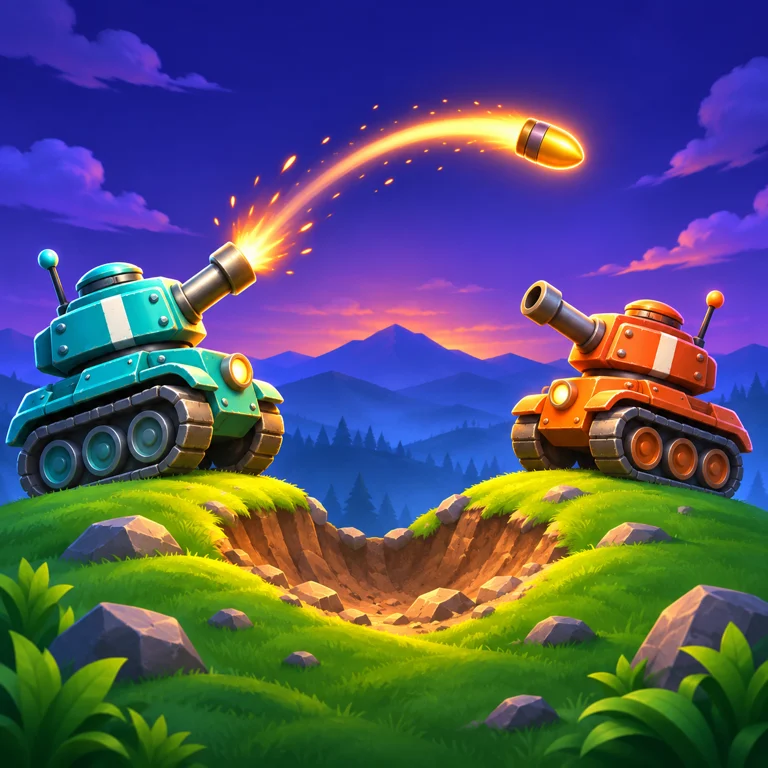
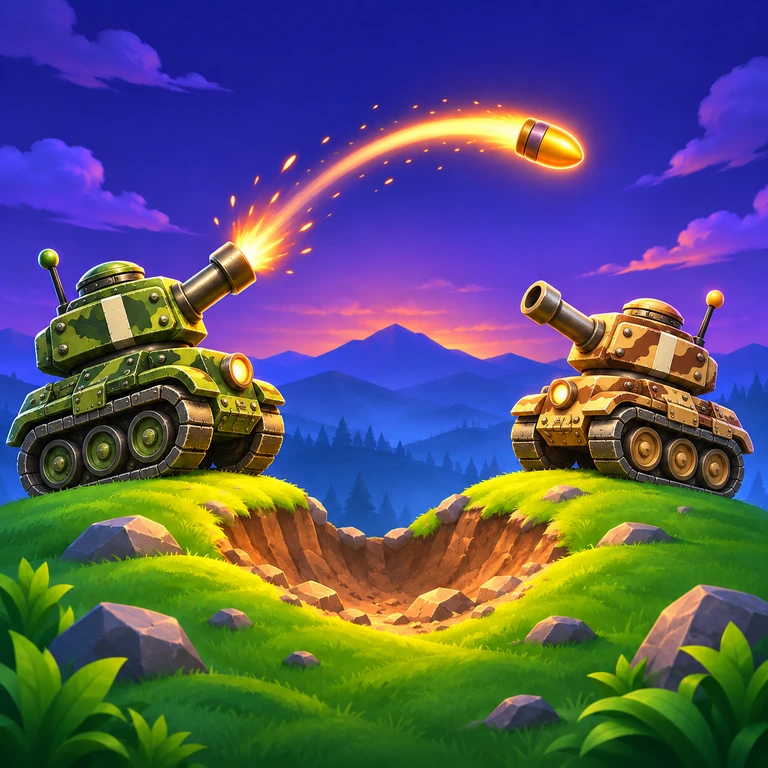
Update Tank Wars forest and desert artwork and aiming guide

diff --git a/tank-wars/index.html b/tank-wars/index.html
@@ -1,1 +1,1 @@
-<!doctype html><html lang="en"><head><meta charset="utf-8"><meta name="viewport" content="width=device-width,initial-scale=1"><title>Tank Wars — Android Artillery Game — TripperDeeLabs</title><meta name="description" content="Aim, fire and reshape the hills in Tank Wars for Android. Turn-based artillery, destructible terrain, three weapons and offline local play. Coming soon."><link rel="canonical" href="https://tripperdeelabs.com/tank-wars/"><meta property="og:type" content="website"><meta property="og:title" content="Tank Wars — Android Artillery Game"><meta property="og:description" content="Aim, fire and reshape the hills in Tank Wars for Android. Turn-based artillery, destructible terrain, three weapons and offline local play. Coming soon."><meta property="og:url" content="https://tripperdeelabs.com/tank-wars/"><meta property="og:image" content="https://tripperdeelabs.com/assets/apps/tank-wars/art.webp"><meta property="og:image:alt" content="Tank Wars — Android Artillery Game"><meta name="twitter:card" content="summary_large_image"><meta name="twitter:title" content="Tank Wars — Android Artillery Game"><meta name="twitter:description" content="Aim, fire and reshape the hills in Tank Wars for Android. Turn-based artillery, destructible terrain, three weapons and offline local play. Coming soon."><meta name="twitter:image" content="https://tripperdeelabs.com/assets/apps/tank-wars/art.webp"><meta name="twitter:image:alt" content="Tank Wars — Android Artillery Game"><script type="application/ld+json">{"@context": "https://schema.org", "@graph": [{"@type": "Organization", "@id": "https://tripperdeelabs.com/#studio", "name": "TripperDeeLabs", "url": "https://tripperdeelabs.com/", "logo": "https://tripperdeelabs.com/assets/tripperdeelabs-logo.png", "email": "tripperdeelabs@gmail.com"}, {"@type": "WebSite", "@id": "https://tripperdeelabs.com/#website", "url": "https://tripperdeelabs.com/", "name": "TripperDeeLabs", "publisher": {"@id": "https://tripperdeelabs.com/#studio"}, "inLanguage": "en"}, {"@type": "WebPage", "@id": "https://tripperdeelabs.com/tank-wars/#webpage", "url": "https://tripperdeelabs.com/tank-wars/", "name": "Tank Wars \u2014 Android Artillery Game", "description": "Aim, fire and reshape the hills in Tank Wars for Android. Turn-based artillery, destructible terrain, three weapons and offline local play. Coming soon.", "isPartOf": {"@id": "https://tripperdeelabs.com/#website"}, "publisher": {"@id": "https://tripperdeelabs.com/#studio"}, "inLanguage": "en"}, {"@type": "BreadcrumbList", "itemListElement": [{"@type": "ListItem", "position": 1, "name": "Home", "item": "https://tripperdeelabs.com/"}, {"@type": "ListItem", "position": 2, "name": "Tank Wars \u2014 Android Artillery Game", "item": "https://tripperdeelabs.com/tank-wars/"}]}]}</script><link rel="icon" href="/assets/tripperdeelabs-logo.png" type="image/png"><link rel="stylesheet" href="/styles.css"><link rel="stylesheet" href="/catalog.css"><script defer src="/cookie-consent.js"></script></head><body><a class="skip-link" href="#main-content">Skip to main content</a><header class="site-header"><nav class="nav wrap" aria-label="Main navigation"><a class="brand" href="/"><img class="brand-logo" src="/assets/tripperdeelabs-logo.png" width="48" height="48" alt="">TripperDeeLabs</a><div class="links"><a href="/#apps">Apps</a><a href="/wear-os/">Wear OS</a><a href="/#about">About</a></div></nav></header><main id="main-content" tabindex="-1" class="wrap"><nav class="breadcrumbs" aria-label="Breadcrumb"><a href="/">Home</a> <span aria-hidden="true">/</span> <span aria-current="page">Tank Wars — Android Artillery Game</span></nav><style>.tank-hero{display:grid;grid-template-columns:1.1fr 1fr;gap:2rem;align-items:center}.tank-hero img{width:100%;height:auto;border-radius:24px}.tank-gallery{display:grid;gap:1.2rem}.tank-gallery img{width:100%;height:auto;border-radius:18px}.tank-gallery figure{margin:0}@media(max-width:650px){.tank-hero{grid-template-columns:1fr}}</style><section class="catalog-hero tank-hero"><div><p class="eyebrow">Android artillery game · Coming soon</p><h1>Tank Wars</h1><p class="lead">Aim high. Change the ground.</p><p>Line up your angle, choose your power and send a shell across the hills. Every crater changes the battlefield—and your next shot.</p><p><a class="button" href="#screenshots">See the battlefield</a> · <a href="/tank-wars/support/">How to play</a></p><p>In development. Not yet available on Google Play.</p></div><img src="/assets/apps/tank-wars/art.webp" width="768" height="768" alt="Turquoise and coral tanks on opposing green hills beneath a golden shell arc"></section><section><h2>Make every shot count</h2><p>Tank Wars is a native Android, turn-based artillery game. Adjust your turret angle and firing power, watch the wind, then fire. Projectiles follow curved trajectories, explosions carve away terrain, and tanks fall when the ground underneath them disappears.</p><h2>Three ways to play</h2><p>Practice against the computer, trade turns with a friend on one phone or tablet, or try the paired Bluetooth Host a game / Join a game mode. Local gameplay needs no internet and no account.</p><p>Bluetooth is implemented in the development build, with the host calculating shots, damage and turns. Synchronization is tested in software; two-device radio gameplay still requires validation. Both devices need Bluetooth enabled, Android pairing and the same app version.</p><h2>Choose your weapon</h2><p><strong>Shell</strong> gives you unlimited standard shots. <strong>Heavy</strong> makes a wider blast, with three rounds per battle. <strong>Drill</strong> digs deeper into the ground, also with three rounds. Use terrain damage to change your opponent’s position, but protect your own foothold.</p></section><section id="screenshots"><h2>Inside the game</h2><p>Actual Android development-build captures from the emulator. Final release details may change.</p><div class="tank-gallery"><figure><img src="/assets/apps/tank-wars/home.webp" width="2400" height="1080" loading="lazy" alt="Tank Wars landscape menu with computer, two-player and Bluetooth modes"><figcaption>Choose a battle. Settings uses the gear icon.</figcaption></figure><figure><img src="/assets/apps/tank-wars/game.webp" width="2400" height="1080" loading="lazy" alt="Tank Wars battlefield with terrain, tanks, aiming sliders and Fire button"><figcaption>Native touch controls and a Canvas-rendered battlefield.</figcaption></figure></div></section><section><h2>Play at your pace</h2><p>Pause mid-shot, then resume where you left off. Local battles save on your device. Sound is optional. Compact controls keep the battlefield visible on phones and tablets.</p><h2>Between battles</h2><p>Development builds use Google test interstitial ads only after a completed battle, when starting another battle or returning Home. Close the ad to continue. If no ad is ready, play continues normally. Ads require internet; gameplay does not. Launch pricing and production ad configuration have not been announced.</p></section><p><a href="/tank-wars/privacy/">Privacy policy</a> · <a href="/tank-wars/support/">Support</a></p></main><footer class="studio-footer"><div class="wrap"><div class="studio-footer-main"><div class="studio-footer-brand"><a href="/">TripperDeeLabs</a><p>Doing TripperDee things in a TripperDee world.</p></div><nav class="studio-footer-nav" aria-label="Footer navigation"><a href="/#apps">Apps</a><a href="/#about">About the developer</a><a href="mailto:tripperdeelabs@gmail.com">Contact</a><a href="/feedback/">Feedback</a><a href="/privacy/">Website privacy</a></nav></div><div class="studio-footer-bottom"><span>© 2026 TripperDeeLabs</span><span>Google Play and the Google Play logo are trademarks of Google LLC.</span></div></div></footer></body></html>
+<!doctype html><html lang="en"><head><meta charset="utf-8"><meta name="viewport" content="width=device-width,initial-scale=1"><title>Tank Wars — Android Artillery Game — TripperDeeLabs</title><meta name="description" content="Aim, fire and reshape the hills in Tank Wars for Android. Turn-based artillery, destructible terrain, three weapons and offline local play. Coming soon."><link rel="canonical" href="https://tripperdeelabs.com/tank-wars/"><meta property="og:type" content="website"><meta property="og:title" content="Tank Wars — Android Artillery Game"><meta property="og:description" content="Aim, fire and reshape the hills in Tank Wars for Android. Turn-based artillery, destructible terrain, three weapons and offline local play. Coming soon."><meta property="og:url" content="https://tripperdeelabs.com/tank-wars/"><meta property="og:image" content="https://tripperdeelabs.com/assets/apps/tank-wars/art.webp"><meta property="og:image:alt" content="Tank Wars — Android Artillery Game"><meta name="twitter:card" content="summary_large_image"><meta name="twitter:title" content="Tank Wars — Android Artillery Game"><meta name="twitter:description" content="Aim, fire and reshape the hills in Tank Wars for Android. Turn-based artillery, destructible terrain, three weapons and offline local play. Coming soon."><meta name="twitter:image" content="https://tripperdeelabs.com/assets/apps/tank-wars/art.webp"><meta name="twitter:image:alt" content="Tank Wars — Android Artillery Game"><script type="application/ld+json">{"@context": "https://schema.org", "@graph": [{"@type": "Organization", "@id": "https://tripperdeelabs.com/#studio", "name": "TripperDeeLabs", "url": "https://tripperdeelabs.com/", "logo": "https://tripperdeelabs.com/assets/tripperdeelabs-logo.png", "email": "tripperdeelabs@gmail.com"}, {"@type": "WebSite", "@id": "https://tripperdeelabs.com/#website", "url": "https://tripperdeelabs.com/", "name": "TripperDeeLabs", "publisher": {"@id": "https://tripperdeelabs.com/#studio"}, "inLanguage": "en"}, {"@type": "WebPage", "@id": "https://tripperdeelabs.com/tank-wars/#webpage", "url": "https://tripperdeelabs.com/tank-wars/", "name": "Tank Wars \u2014 Android Artillery Game", "description": "Aim, fire and reshape the hills in Tank Wars for Android. Turn-based artillery, destructible terrain, three weapons and offline local play. Coming soon.", "isPartOf": {"@id": "https://tripperdeelabs.com/#website"}, "publisher": {"@id": "https://tripperdeelabs.com/#studio"}, "inLanguage": "en"}, {"@type": "BreadcrumbList", "itemListElement": [{"@type": "ListItem", "position": 1, "name": "Home", "item": "https://tripperdeelabs.com/"}, {"@type": "ListItem", "position": 2, "name": "Tank Wars \u2014 Android Artillery Game", "item": "https://tripperdeelabs.com/tank-wars/"}]}]}</script><link rel="icon" href="/assets/tripperdeelabs-logo.png" type="image/png"><link rel="stylesheet" href="/styles.css"><link rel="stylesheet" href="/catalog.css"><script defer src="/cookie-consent.js"></script></head><body><a class="skip-link" href="#main-content">Skip to main content</a><header class="site-header"><nav class="nav wrap" aria-label="Main navigation"><a class="brand" href="/"><img class="brand-logo" src="/assets/tripperdeelabs-logo.png" width="48" height="48" alt="">TripperDeeLabs</a><div class="links"><a href="/#apps">Apps</a><a href="/wear-os/">Wear OS</a><a href="/#about">About</a></div></nav></header><main id="main-content" tabindex="-1" class="wrap"><nav class="breadcrumbs" aria-label="Breadcrumb"><a href="/">Home</a> <span aria-hidden="true">/</span> <span aria-current="page">Tank Wars — Android Artillery Game</span></nav><style>.tank-hero{display:grid;grid-template-columns:1.1fr 1fr;gap:2rem;align-items:center}.tank-hero img{width:100%;height:auto;border-radius:24px}.tank-gallery{display:grid;gap:1.2rem}.tank-gallery img{width:100%;height:auto;border-radius:18px}.tank-gallery figure{margin:0}@media(max-width:650px){.tank-hero{grid-template-columns:1fr}}</style><section class="catalog-hero tank-hero"><div><p class="eyebrow">Android artillery game · Coming soon</p><h1>Tank Wars</h1><p class="lead">Aim high. Change the ground.</p><p>Line up your angle, choose your power and send a shell across the hills. Every crater changes the battlefield—and your next shot.</p><p><a class="button" href="#screenshots">See the battlefield</a> · <a href="/tank-wars/support/">How to play</a></p><p>In development. Not yet available on Google Play.</p></div><img src="/assets/apps/tank-wars/art.webp" width="768" height="768" alt="Forest-green and desert-tan camouflage tanks on opposing green hills beneath a golden shell arc"></section><section><h2>Make every shot count</h2><p>Tank Wars is a native Android, turn-based artillery game. Adjust your turret angle and firing power, watch the wind, then fire. Projectiles follow curved trajectories, explosions carve away terrain, and tanks fall when the ground underneath them disappears.</p><h2>Three ways to play</h2><p>Practice against the computer, trade turns with a friend on one phone or tablet, or try the paired Bluetooth Host a game / Join a game mode. Local gameplay needs no internet and no account.</p><p>Bluetooth is implemented in the development build, with the host calculating shots, damage and turns. Synchronization is tested in software; two-device radio gameplay still requires validation. Both devices need Bluetooth enabled, Android pairing and the same app version.</p><h2>Choose your weapon</h2><p><strong>Shell</strong> gives you unlimited standard shots. <strong>Heavy</strong> makes a wider blast, with three rounds per battle. <strong>Drill</strong> digs deeper into the ground, also with three rounds. Use terrain damage to change your opponent’s position, but protect your own foothold.</p></section><section id="screenshots"><h2>Inside the game</h2><p>Actual Android development-build captures from the emulator. Final release details may change.</p><div class="tank-gallery"><figure><img src="/assets/apps/tank-wars/home.webp" width="2400" height="1080" loading="lazy" alt="Tank Wars landscape menu with computer, two-player and Bluetooth modes"><figcaption>Choose a battle. Settings uses the gear icon.</figcaption></figure><figure><img src="/assets/apps/tank-wars/game.webp" width="2400" height="1080" loading="lazy" alt="Tank Wars battlefield with terrain, tanks, aiming sliders and Fire button"><figcaption>Native touch controls and a Canvas-rendered battlefield.</figcaption></figure></div></section><section><h2>Play at your pace</h2><p>Pause mid-shot, then resume where you left off. Local battles save on your device. Sound is optional. Compact controls keep the battlefield visible on phones and tablets.</p><h2>Between battles</h2><p>Development builds use Google test interstitial ads only after a completed battle, when starting another battle or returning Home. Close the ad to continue. If no ad is ready, play continues normally. Ads require internet; gameplay does not. Launch pricing and production ad configuration have not been announced.</p></section><p><a href="/tank-wars/privacy/">Privacy policy</a> · <a href="/tank-wars/support/">Support</a></p></main><footer class="studio-footer"><div class="wrap"><div class="studio-footer-main"><div class="studio-footer-brand"><a href="/">TripperDeeLabs</a><p>Doing TripperDee things in a TripperDee world.</p></div><nav class="studio-footer-nav" aria-label="Footer navigation"><a href="/#apps">Apps</a><a href="/#about">About the developer</a><a href="mailto:tripperdeelabs@gmail.com">Contact</a><a href="/feedback/">Feedback</a><a href="/privacy/">Website privacy</a></nav></div><div class="studio-footer-bottom"><span>© 2026 TripperDeeLabs</span><span>Google Play and the Google Play logo are trademarks of Google LLC.</span></div></div></footer></body></html>

diff --git a/tank-wars/support/index.html b/tank-wars/support/index.html
@@ -1,1 +1,1 @@
-<!doctype html><html lang="en"><head><meta charset="utf-8"><meta name="viewport" content="width=device-width,initial-scale=1"><title>Tank Wars support — TripperDeeLabs</title><meta name="description" content="How to aim, use weapons, pause, save and connect over Bluetooth in Tank Wars."><link rel="canonical" href="https://tripperdeelabs.com/tank-wars/support/"><meta property="og:type" content="website"><meta property="og:title" content="Tank Wars support"><meta property="og:description" content="How to aim, use weapons, pause, save and connect over Bluetooth in Tank Wars."><meta property="og:url" content="https://tripperdeelabs.com/tank-wars/support/"><meta property="og:image" content="https://tripperdeelabs.com/assets/tripperdeelabs-logo.png"><meta property="og:image:alt" content="Tank Wars support"><meta name="twitter:card" content="summary_large_image"><meta name="twitter:title" content="Tank Wars support"><meta name="twitter:description" content="How to aim, use weapons, pause, save and connect over Bluetooth in Tank Wars."><meta name="twitter:image" content="https://tripperdeelabs.com/assets/tripperdeelabs-logo.png"><meta name="twitter:image:alt" content="Tank Wars support"><script type="application/ld+json">{"@context": "https://schema.org", "@graph": [{"@type": "Organization", "@id": "https://tripperdeelabs.com/#studio", "name": "TripperDeeLabs", "url": "https://tripperdeelabs.com/", "logo": "https://tripperdeelabs.com/assets/tripperdeelabs-logo.png", "email": "tripperdeelabs@gmail.com"}, {"@type": "WebSite", "@id": "https://tripperdeelabs.com/#website", "url": "https://tripperdeelabs.com/", "name": "TripperDeeLabs", "publisher": {"@id": "https://tripperdeelabs.com/#studio"}, "inLanguage": "en"}, {"@type": "WebPage", "@id": "https://tripperdeelabs.com/tank-wars/support/#webpage", "url": "https://tripperdeelabs.com/tank-wars/support/", "name": "Tank Wars support", "description": "How to aim, use weapons, pause, save and connect over Bluetooth in Tank Wars.", "isPartOf": {"@id": "https://tripperdeelabs.com/#website"}, "publisher": {"@id": "https://tripperdeelabs.com/#studio"}, "inLanguage": "en"}, {"@type": "BreadcrumbList", "itemListElement": [{"@type": "ListItem", "position": 1, "name": "Home", "item": "https://tripperdeelabs.com/"}, {"@type": "ListItem", "position": 2, "name": "Tank Wars support", "item": "https://tripperdeelabs.com/tank-wars/support/"}]}]}</script><link rel="icon" href="/assets/tripperdeelabs-logo.png" type="image/png"><link rel="stylesheet" href="/styles.css"><link rel="stylesheet" href="/catalog.css"><script defer src="/cookie-consent.js"></script></head><body><a class="skip-link" href="#main-content">Skip to main content</a><header class="site-header"><nav class="nav wrap" aria-label="Main navigation"><a class="brand" href="/"><img class="brand-logo" src="/assets/tripperdeelabs-logo.png" width="48" height="48" alt="">TripperDeeLabs</a><div class="links"><a href="/#apps">Apps</a><a href="/wear-os/">Wear OS</a><a href="/#about">About</a></div></nav></header><main id="main-content" tabindex="-1" class="wrap"><nav class="breadcrumbs" aria-label="Breadcrumb"><a href="/">Home</a> <span aria-hidden="true">/</span> <span aria-current="page">Tank Wars support</span></nav><section><h1>Tank Wars support</h1><h2>Aim and fire</h2><p>Play in landscape. Move the Aim slider to change your turret angle and the Power slider to change shot strength. Tap the weapon name to choose Shell, Heavy or Drill. Tap FIRE when it is your turn. Wind bends the trajectory. The turn passes after the shot and any falling tanks have settled.</p><h2>Win the battle</h2><p>Reduce the other tank’s health to zero. Nearby explosions damage tanks; falling can cause additional damage. Shell is unlimited, while Heavy and Drill each start with three rounds. Heavy creates a wider blast; Drill digs deeper. Two players takes turns on the same device; Play computer gives you a computer opponent.</p><h2>Pause and resume</h2><p>The two-bar icon pauses. Resume continues a shot or settling terrain. Home keeps the local battle, including ammunition and terrain. Starting a different local battle asks before replacing it. The gear opens Settings; the Home icon returns to the menu. Do not clear storage or uninstall to troubleshoot if you want to keep your save.</p><h2>Bluetooth setup</h2><p>Enable Bluetooth and pair both devices in Android Bluetooth settings. Install the same Tank Wars version on both. Choose Bluetooth play, then Host a game on one phone and Join a game on the other. Grant Nearby devices permission and select the hosting phone. The host controls the simulation; each player can aim and fire only on their own turn. Leaving the foreground disconnects the session. Reconnect to start a new battle. Two-device radio behavior is still being validated.</p><h2>Ads</h2><p>Google test ads may appear only after a completed battle, when choosing New battle or Home. Use the ad’s Close button when available. If an ad cannot load, play continues. Bluetooth sessions close before an ad; host and join again for another battle.</p><h2>Contact</h2><p>Email <a href="mailto:tripperdeelabs@gmail.com?subject=Tank%20Wars%20support">tripperdeelabs@gmail.com</a> with your app version, device model and what happened.</p><p><a href="/tank-wars/">Game overview</a> · <a href="/tank-wars/privacy/">Privacy policy</a></p></section></main><footer class="studio-footer"><div class="wrap"><div class="studio-footer-main"><div class="studio-footer-brand"><a href="/">TripperDeeLabs</a><p>Doing TripperDee things in a TripperDee world.</p></div><nav class="studio-footer-nav" aria-label="Footer navigation"><a href="/#apps">Apps</a><a href="/#about">About the developer</a><a href="mailto:tripperdeelabs@gmail.com">Contact</a><a href="/feedback/">Feedback</a><a href="/privacy/">Website privacy</a></nav></div><div class="studio-footer-bottom"><span>© 2026 TripperDeeLabs</span><span>Google Play and the Google Play logo are trademarks of Google LLC.</span></div></div></footer></body></html>
+<!doctype html><html lang="en"><head><meta charset="utf-8"><meta name="viewport" content="width=device-width,initial-scale=1"><title>Tank Wars support — TripperDeeLabs</title><meta name="description" content="How to aim, use weapons, pause, save and connect over Bluetooth in Tank Wars."><link rel="canonical" href="https://tripperdeelabs.com/tank-wars/support/"><meta property="og:type" content="website"><meta property="og:title" content="Tank Wars support"><meta property="og:description" content="How to aim, use weapons, pause, save and connect over Bluetooth in Tank Wars."><meta property="og:url" content="https://tripperdeelabs.com/tank-wars/support/"><meta property="og:image" content="https://tripperdeelabs.com/assets/tripperdeelabs-logo.png"><meta property="og:image:alt" content="Tank Wars support"><meta name="twitter:card" content="summary_large_image"><meta name="twitter:title" content="Tank Wars support"><meta name="twitter:description" content="How to aim, use weapons, pause, save and connect over Bluetooth in Tank Wars."><meta name="twitter:image" content="https://tripperdeelabs.com/assets/tripperdeelabs-logo.png"><meta name="twitter:image:alt" content="Tank Wars support"><script type="application/ld+json">{"@context": "https://schema.org", "@graph": [{"@type": "Organization", "@id": "https://tripperdeelabs.com/#studio", "name": "TripperDeeLabs", "url": "https://tripperdeelabs.com/", "logo": "https://tripperdeelabs.com/assets/tripperdeelabs-logo.png", "email": "tripperdeelabs@gmail.com"}, {"@type": "WebSite", "@id": "https://tripperdeelabs.com/#website", "url": "https://tripperdeelabs.com/", "name": "TripperDeeLabs", "publisher": {"@id": "https://tripperdeelabs.com/#studio"}, "inLanguage": "en"}, {"@type": "WebPage", "@id": "https://tripperdeelabs.com/tank-wars/support/#webpage", "url": "https://tripperdeelabs.com/tank-wars/support/", "name": "Tank Wars support", "description": "How to aim, use weapons, pause, save and connect over Bluetooth in Tank Wars.", "isPartOf": {"@id": "https://tripperdeelabs.com/#website"}, "publisher": {"@id": "https://tripperdeelabs.com/#studio"}, "inLanguage": "en"}, {"@type": "BreadcrumbList", "itemListElement": [{"@type": "ListItem", "position": 1, "name": "Home", "item": "https://tripperdeelabs.com/"}, {"@type": "ListItem", "position": 2, "name": "Tank Wars support", "item": "https://tripperdeelabs.com/tank-wars/support/"}]}]}</script><link rel="icon" href="/assets/tripperdeelabs-logo.png" type="image/png"><link rel="stylesheet" href="/styles.css"><link rel="stylesheet" href="/catalog.css"><script defer src="/cookie-consent.js"></script></head><body><a class="skip-link" href="#main-content">Skip to main content</a><header class="site-header"><nav class="nav wrap" aria-label="Main navigation"><a class="brand" href="/"><img class="brand-logo" src="/assets/tripperdeelabs-logo.png" width="48" height="48" alt="">TripperDeeLabs</a><div class="links"><a href="/#apps">Apps</a><a href="/wear-os/">Wear OS</a><a href="/#about">About</a></div></nav></header><main id="main-content" tabindex="-1" class="wrap"><nav class="breadcrumbs" aria-label="Breadcrumb"><a href="/">Home</a> <span aria-hidden="true">/</span> <span aria-current="page">Tank Wars support</span></nav><section><h1>Tank Wars support</h1><h2>Aim and fire</h2><p>Play in landscape. Move the Aim slider to change your turret angle and the Power slider to change shot strength. Tap the weapon name to choose Shell, Heavy or Drill. Tap FIRE when it is your turn. Drag across the battlefield to aim, or use the sliders for finer adjustments. A short dotted guide shows the initial wind-aware trajectory; each tank remembers its previous angle and power. Wind bends the trajectory. The turn passes after the shot and any falling tanks have settled.</p><h2>Win the battle</h2><p>Reduce the other tank’s health to zero. Nearby explosions damage tanks; falling can cause additional damage. Shell is unlimited, while Heavy and Drill each start with three rounds. Heavy creates a wider blast; Drill digs deeper. Two players takes turns on the same device; Play computer gives you a computer opponent.</p><h2>Pause and resume</h2><p>The two-bar icon pauses. Resume continues a shot or settling terrain. Home keeps the local battle, including ammunition and terrain. Starting a different local battle asks before replacing it. The gear opens Settings; the Home icon returns to the menu. Do not clear storage or uninstall to troubleshoot if you want to keep your save.</p><h2>Bluetooth setup</h2><p>Enable Bluetooth and pair both devices in Android Bluetooth settings. Install the same Tank Wars version on both. Choose Bluetooth play, then Host a game on one phone and Join a game on the other. Grant Nearby devices permission and select the hosting phone. The host controls the simulation; each player can aim and fire only on their own turn. Leaving the foreground disconnects the session. Reconnect to start a new battle. Two-device radio behavior is still being validated.</p><h2>Ads</h2><p>Google test ads may appear only after a completed battle, when choosing New battle or Home. Use the ad’s Close button when available. If an ad cannot load, play continues. Bluetooth sessions close before an ad; host and join again for another battle.</p><h2>Contact</h2><p>Email <a href="mailto:tripperdeelabs@gmail.com?subject=Tank%20Wars%20support">tripperdeelabs@gmail.com</a> with your app version, device model and what happened.</p><p><a href="/tank-wars/">Game overview</a> · <a href="/tank-wars/privacy/">Privacy policy</a></p></section></main><footer class="studio-footer"><div class="wrap"><div class="studio-footer-main"><div class="studio-footer-brand"><a href="/">TripperDeeLabs</a><p>Doing TripperDee things in a TripperDee world.</p></div><nav class="studio-footer-nav" aria-label="Footer navigation"><a href="/#apps">Apps</a><a href="/#about">About the developer</a><a href="mailto:tripperdeelabs@gmail.com">Contact</a><a href="/feedback/">Feedback</a><a href="/privacy/">Website privacy</a></nav></div><div class="studio-footer-bottom"><span>© 2026 TripperDeeLabs</span><span>Google Play and the Google Play logo are trademarks of Google LLC.</span></div></div></footer></body></html>

diff --git a/scripts/tank_wars_pages.py b/scripts/tank_wars_pages.py
@@ -4,9 +4,9 @@ from bs4 import BeautifulSoup
 ROOT=Path(__file__).resolve().parents[1]
 def build(page):
  base='/assets/apps/tank-wars/'
- body=f'''<style>.tank-hero{{display:grid;grid-template-columns:1.1fr 1fr;gap:2rem;align-items:center}}.tank-hero img{{width:100%;height:auto;border-radius:24px}}.tank-gallery{{display:grid;gap:1.2rem}}.tank-gallery img{{width:100%;height:auto;border-radius:18px}}.tank-gallery figure{{margin:0}}@media(max-width:650px){{.tank-hero{{grid-template-columns:1fr}}}}</style><section class="catalog-hero tank-hero"><div><p class="eyebrow">Android artillery game · Coming soon</p><h1>Tank Wars</h1><p class="lead">Aim high. Change the ground.</p><p>Line up your angle, choose your power and send a shell across the hills. Every crater changes the battlefield—and your next shot.</p><p><a class="button" href="#screenshots">See the battlefield</a> · <a href="/tank-wars/support/">How to play</a></p><p>In development. Not yet available on Google Play.</p></div><img src="{base}art.webp" width="768" height="768" alt="Turquoise and coral tanks on opposing green hills beneath a golden shell arc"></section><section><h2>Make every shot count</h2><p>Tank Wars is a native Android, turn-based artillery game. Adjust your turret angle and firing power, watch the wind, then fire. Projectiles follow curved trajectories, explosions carve away terrain, and tanks fall when the ground underneath them disappears.</p><h2>Three ways to play</h2><p>Practice against the computer, trade turns with a friend on one phone or tablet, or try the paired Bluetooth Host a game / Join a game mode. Local gameplay needs no internet and no account.</p><p>Bluetooth is implemented in the development build, with the host calculating shots, damage and turns. Synchronization is tested in software; two-device radio gameplay still requires validation. Both devices need Bluetooth enabled, Android pairing and the same app version.</p><h2>Choose your weapon</h2><p><strong>Shell</strong> gives you unlimited standard shots. <strong>Heavy</strong> makes a wider blast, with three rounds per battle. <strong>Drill</strong> digs deeper into the ground, also with three rounds. Use terrain damage to change your opponent’s position, but protect your own foothold.</p></section><section id="screenshots"><h2>Inside the game</h2><p>Actual Android development-build captures from the emulator. Final release details may change.</p><div class="tank-gallery"><figure><img src="{base}home.webp" width="2400" height="1080" loading="lazy" alt="Tank Wars landscape menu with computer, two-player and Bluetooth modes"><figcaption>Choose a battle. Settings uses the gear icon.</figcaption></figure><figure><img src="{base}game.webp" width="2400" height="1080" loading="lazy" alt="Tank Wars battlefield with terrain, tanks, aiming sliders and Fire button"><figcaption>Native touch controls and a Canvas-rendered battlefield.</figcaption></figure></div></section><section><h2>Play at your pace</h2><p>Pause mid-shot, then resume where you left off. Local battles save on your device. Sound is optional. Compact controls keep the battlefield visible on phones and tablets.</p><h2>Between battles</h2><p>Development builds use Google test interstitial ads only after a completed battle, when starting another battle or returning Home. Close the ad to continue. If no ad is ready, play continues normally. Ads require internet; gameplay does not. Launch pricing and production ad configuration have not been announced.</p></section><p><a href="/tank-wars/privacy/">Privacy policy</a> · <a href="/tank-wars/support/">Support</a></p>'''
+ body=f'''<style>.tank-hero{{display:grid;grid-template-columns:1.1fr 1fr;gap:2rem;align-items:center}}.tank-hero img{{width:100%;height:auto;border-radius:24px}}.tank-gallery{{display:grid;gap:1.2rem}}.tank-gallery img{{width:100%;height:auto;border-radius:18px}}.tank-gallery figure{{margin:0}}@media(max-width:650px){{.tank-hero{{grid-template-columns:1fr}}}}</style><section class="catalog-hero tank-hero"><div><p class="eyebrow">Android artillery game · Coming soon</p><h1>Tank Wars</h1><p class="lead">Aim high. Change the ground.</p><p>Line up your angle, choose your power and send a shell across the hills. Every crater changes the battlefield—and your next shot.</p><p><a class="button" href="#screenshots">See the battlefield</a> · <a href="/tank-wars/support/">How to play</a></p><p>In development. Not yet available on Google Play.</p></div><img src="{base}art.webp" width="768" height="768" alt="Forest-green and desert-tan camouflage tanks on opposing green hills beneath a golden shell arc"></section><section><h2>Make every shot count</h2><p>Tank Wars is a native Android, turn-based artillery game. Adjust your turret angle and firing power, watch the wind, then fire. Projectiles follow curved trajectories, explosions carve away terrain, and tanks fall when the ground underneath them disappears.</p><h2>Three ways to play</h2><p>Practice against the computer, trade turns with a friend on one phone or tablet, or try the paired Bluetooth Host a game / Join a game mode. Local gameplay needs no internet and no account.</p><p>Bluetooth is implemented in the development build, with the host calculating shots, damage and turns. Synchronization is tested in software; two-device radio gameplay still requires validation. Both devices need Bluetooth enabled, Android pairing and the same app version.</p><h2>Choose your weapon</h2><p><strong>Shell</strong> gives you unlimited standard shots. <strong>Heavy</strong> makes a wider blast, with three rounds per battle. <strong>Drill</strong> digs deeper into the ground, also with three rounds. Use terrain damage to change your opponent’s position, but protect your own foothold.</p></section><section id="screenshots"><h2>Inside the game</h2><p>Actual Android development-build captures from the emulator. Final release details may change.</p><div class="tank-gallery"><figure><img src="{base}home.webp" width="2400" height="1080" loading="lazy" alt="Tank Wars landscape menu with computer, two-player and Bluetooth modes"><figcaption>Choose a battle. Settings uses the gear icon.</figcaption></figure><figure><img src="{base}game.webp" width="2400" height="1080" loading="lazy" alt="Tank Wars battlefield with terrain, tanks, aiming sliders and Fire button"><figcaption>Native touch controls and a Canvas-rendered battlefield.</figcaption></figure></div></section><section><h2>Play at your pace</h2><p>Pause mid-shot, then resume where you left off. Local battles save on your device. Sound is optional. Compact controls keep the battlefield visible on phones and tablets.</p><h2>Between battles</h2><p>Development builds use Google test interstitial ads only after a completed battle, when starting another battle or returning Home. Close the ad to continue. If no ad is ready, play continues normally. Ads require internet; gameplay does not. Launch pricing and production ad configuration have not been announced.</p></section><p><a href="/tank-wars/privacy/">Privacy policy</a> · <a href="/tank-wars/support/">Support</a></p>'''
  page('/tank-wars/','Tank Wars — Android Artillery Game','Aim, fire and reshape the hills in Tank Wars for Android. Turn-based artillery, destructible terrain, three weapons and offline local play. Coming soon.',body,'https://tripperdeelabs.com'+base+'art.webp')
  page('/tank-wars/privacy/','Tank Wars privacy policy','Tank Wars local saves, optional paired Bluetooth, Google test ads and support practices.','''<section><h1>Tank Wars privacy policy</h1><p>Updated November 6, 2026. This describes the current Tank Wars Android development build, package com.tripperdeelabs.tankwars, provided by TripperDeeLabs.</p><h2>Local battle data</h2><p>Terrain, tank health, turn, projectile state and sound preferences are saved in the app’s private device storage. No TripperDeeLabs account or cloud-save service is used. Uninstalling or clearing storage removes this data. Android backup is disabled in the manifest; manufacturer device-transfer behavior may vary.</p><h2>Bluetooth play</h2><p>Optional Bluetooth shares aiming and firing commands, terrain changes and battle state directly with your paired opponent. Android Nearby devices permission is requested on supported versions. The game uses Android settings for device discovery and pairing. Battle messages are not uploaded to a TripperDeeLabs server. Leaving the app ends the Bluetooth session; your separate local save is retained.</p><h2>Advertising</h2><p>The current build includes Google Mobile Ads SDK using Google test interstitials. Production ads are disabled. The SDK may process IP addresses, device/network information, diagnostics and ad interactions for ad delivery, measurement and security. Test requests use G-rated, child-directed and under-age-of-consent treatment flags. These settings are not a claim of approved production audience or Families eligibility. No developer-operated analytics SDK is included.</p><p>See <a href="https://policies.google.com/privacy">Google’s privacy policy</a>. Production audience, advertising and consent setup must be completed before release. This policy will be updated if practices change.</p><h2>Permissions and choices</h2><p>Internet/network-state access supports ads. Nearby devices access is optional for local play. Tank Wars does not request location, contacts, microphone or camera permission. There are no purchases in this build.</p><h2>Support and privacy questions</h2><p>Email <a href="mailto:tripperdeelabs@gmail.com">tripperdeelabs@gmail.com</a>. We receive the information you choose to send and use it to respond. Avoid sending passwords or payment details. You may also contact us concerning support correspondence.</p><p>Website analytics are separate from the app and covered by our <a href="/privacy/">website privacy policy</a>.</p><p><a href="/tank-wars/">Game overview</a> · <a href="/tank-wars/support/">Support</a></p></section>''')
- page('/tank-wars/support/','Tank Wars support','How to aim, use weapons, pause, save and connect over Bluetooth in Tank Wars.','''<section><h1>Tank Wars support</h1><h2>Aim and fire</h2><p>Play in landscape. Move the Aim slider to change your turret angle and the Power slider to change shot strength. Tap the weapon name to choose Shell, Heavy or Drill. Tap FIRE when it is your turn. Wind bends the trajectory. The turn passes after the shot and any falling tanks have settled.</p><h2>Win the battle</h2><p>Reduce the other tank’s health to zero. Nearby explosions damage tanks; falling can cause additional damage. Shell is unlimited, while Heavy and Drill each start with three rounds. Heavy creates a wider blast; Drill digs deeper. Two players takes turns on the same device; Play computer gives you a computer opponent.</p><h2>Pause and resume</h2><p>The two-bar icon pauses. Resume continues a shot or settling terrain. Home keeps the local battle, including ammunition and terrain. Starting a different local battle asks before replacing it. The gear opens Settings; the Home icon returns to the menu. Do not clear storage or uninstall to troubleshoot if you want to keep your save.</p><h2>Bluetooth setup</h2><p>Enable Bluetooth and pair both devices in Android Bluetooth settings. Install the same Tank Wars version on both. Choose Bluetooth play, then Host a game on one phone and Join a game on the other. Grant Nearby devices permission and select the hosting phone. The host controls the simulation; each player can aim and fire only on their own turn. Leaving the foreground disconnects the session. Reconnect to start a new battle. Two-device radio behavior is still being validated.</p><h2>Ads</h2><p>Google test ads may appear only after a completed battle, when choosing New battle or Home. Use the ad’s Close button when available. If an ad cannot load, play continues. Bluetooth sessions close before an ad; host and join again for another battle.</p><h2>Contact</h2><p>Email <a href="mailto:tripperdeelabs@gmail.com?subject=Tank%20Wars%20support">tripperdeelabs@gmail.com</a> with your app version, device model and what happened.</p><p><a href="/tank-wars/">Game overview</a> · <a href="/tank-wars/privacy/">Privacy policy</a></p></section>''')
+ page('/tank-wars/support/','Tank Wars support','How to aim, use weapons, pause, save and connect over Bluetooth in Tank Wars.','''<section><h1>Tank Wars support</h1><h2>Aim and fire</h2><p>Play in landscape. Move the Aim slider to change your turret angle and the Power slider to change shot strength. Tap the weapon name to choose Shell, Heavy or Drill. Tap FIRE when it is your turn. Drag across the battlefield to aim, or use the sliders for finer adjustments. A short dotted guide shows the initial wind-aware trajectory; each tank remembers its previous angle and power. Wind bends the trajectory. The turn passes after the shot and any falling tanks have settled.</p><h2>Win the battle</h2><p>Reduce the other tank’s health to zero. Nearby explosions damage tanks; falling can cause additional damage. Shell is unlimited, while Heavy and Drill each start with three rounds. Heavy creates a wider blast; Drill digs deeper. Two players takes turns on the same device; Play computer gives you a computer opponent.</p><h2>Pause and resume</h2><p>The two-bar icon pauses. Resume continues a shot or settling terrain. Home keeps the local battle, including ammunition and terrain. Starting a different local battle asks before replacing it. The gear opens Settings; the Home icon returns to the menu. Do not clear storage or uninstall to troubleshoot if you want to keep your save.</p><h2>Bluetooth setup</h2><p>Enable Bluetooth and pair both devices in Android Bluetooth settings. Install the same Tank Wars version on both. Choose Bluetooth play, then Host a game on one phone and Join a game on the other. Grant Nearby devices permission and select the hosting phone. The host controls the simulation; each player can aim and fire only on their own turn. Leaving the foreground disconnects the session. Reconnect to start a new battle. Two-device radio behavior is still being validated.</p><h2>Ads</h2><p>Google test ads may appear only after a completed battle, when choosing New battle or Home. Use the ad’s Close button when available. If an ad cannot load, play continues. Bluetooth sessions close before an ad; host and join again for another battle.</p><h2>Contact</h2><p>Email <a href="mailto:tripperdeelabs@gmail.com?subject=Tank%20Wars%20support">tripperdeelabs@gmail.com</a> with your app version, device model and what happened.</p><p><a href="/tank-wars/">Game overview</a> · <a href="/tank-wars/privacy/">Privacy policy</a></p></section>''')
  home=ROOT/'index.html';soup=BeautifulSoup(home.read_text(),'html.parser');listing=soup.select_one('#in-development .app-directory');assert listing is not None
  listing.insert(0,BeautifulSoup(f'<li><a class="directory-preview" href="/tank-wars/"><img src="{base}home.webp" width="2400" height="1080" loading="lazy" alt="Tank Wars menu"></a><div class="directory-copy"><h3><a href="/tank-wars/">Tank Wars</a></h3><p class="availability">Coming soon</p><p>Aim, fire and reshape the hills in a turn-based Android artillery game with local play and three weapons.</p><p><a href="/tank-wars/">Explore the game</a> · <a href="/tank-wars/privacy/">Privacy</a></p></div></li>','html.parser').li);home.write_text(str(soup))
